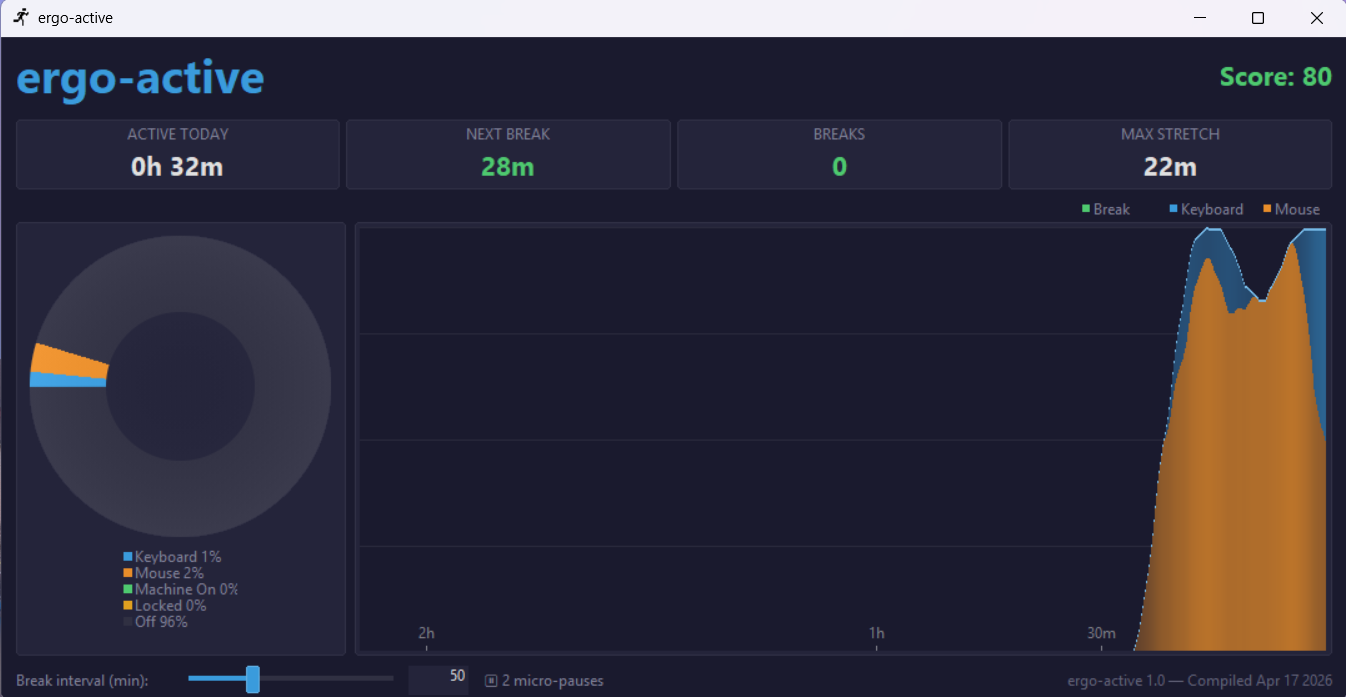
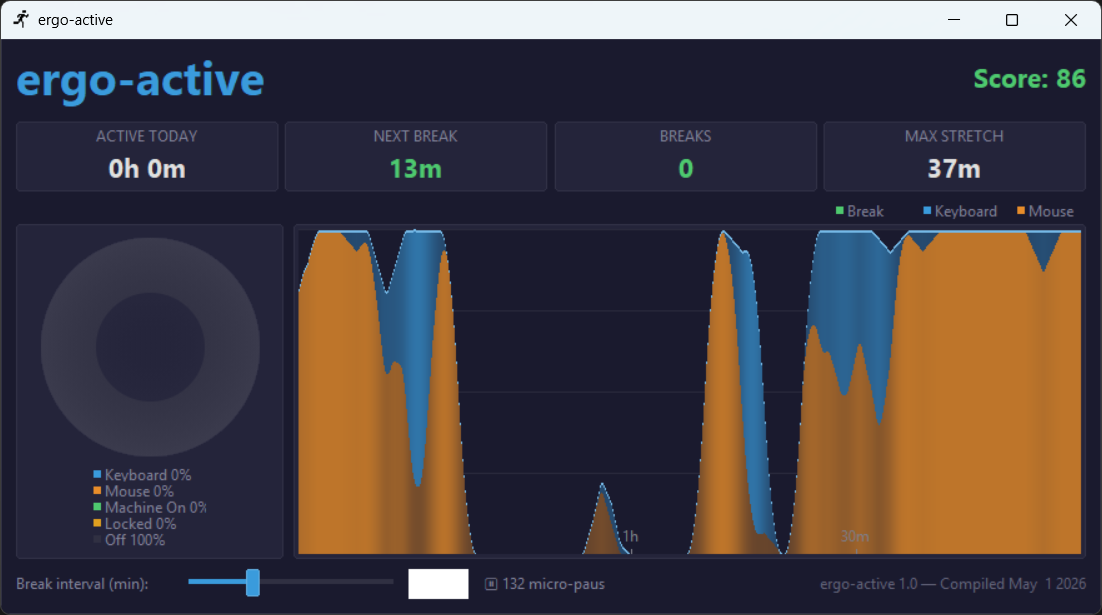
Rename binaries and handle tray balloon clicks

diff --git a/src/ui-task-bar-icon.h b/src/ui-task-bar-icon.h
@@ -80,6 +80,7 @@ public:
 		switch (LOWORD(lParam))
 		{
 		case NIN_SELECT:
+		case NIN_BALLOONUSERCLICK:
 			lResult = on_taskbar_dbl_click();
 			return TRUE;
 
